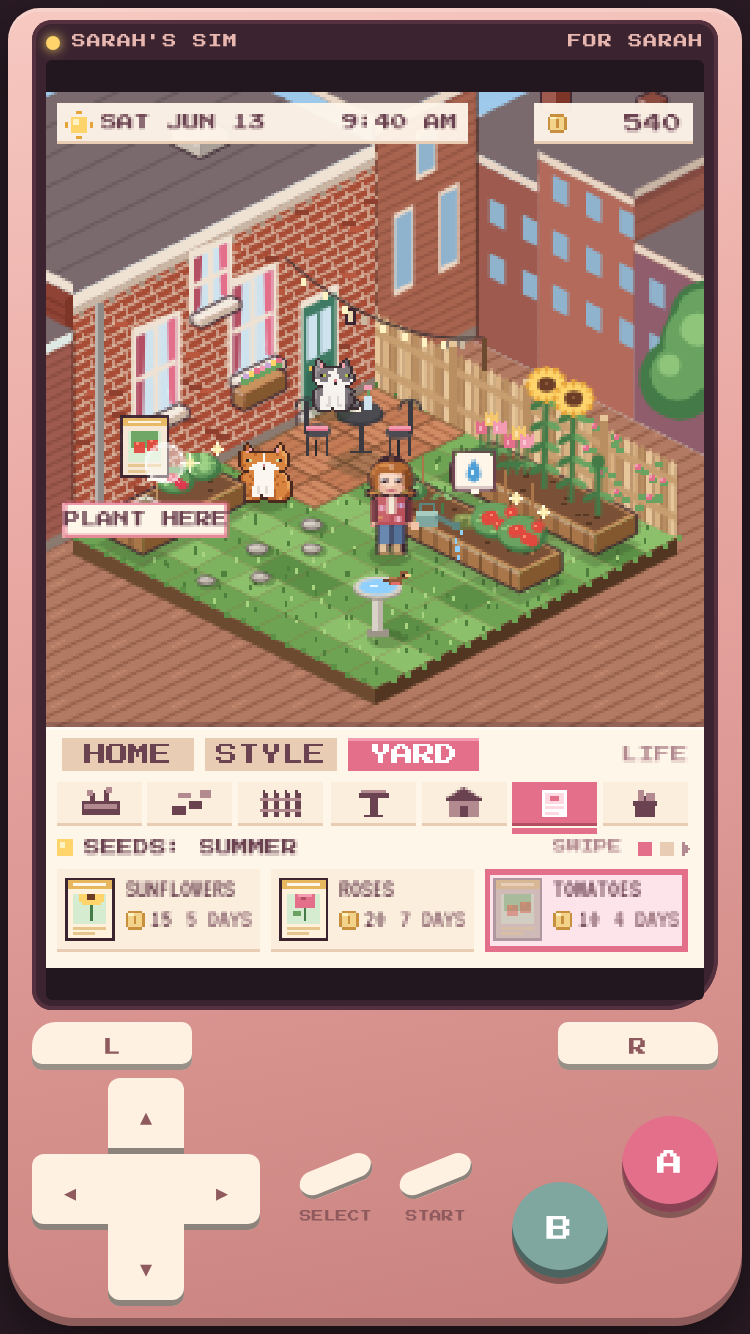
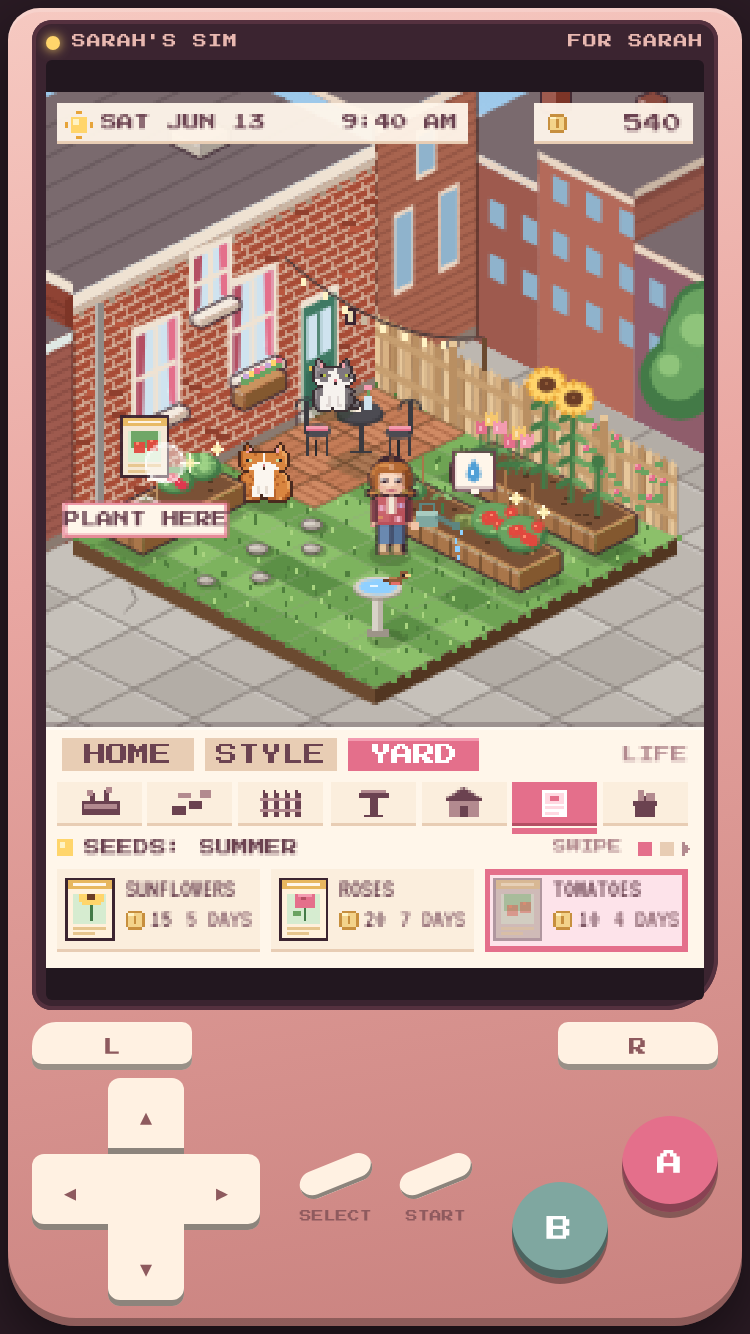
Sarah's Sim: concrete alley around the yard and lawn, not brick lines
Keegan's note: the paving read as wood planks. It's now gray concrete
slabs with joints, a few cracks and weeds.

Claude-Session: https://claude.ai/code/session_019kG9BtZjtrUuyQHKgYVmkD

Changed region(s): [[0.0613, 0.3073, 0.9507, 0.5532], [0.6133, 0.2459, 0.7053, 0.3073]]

diff --git a/games/sarahs-sim/mockups/minigame-v1.js b/games/sarahs-sim/mockups/minigame-v1.js
@@ -80,16 +80,23 @@
     // "slowly leaving": three tiny dots and footprints trailing
   }
 
-  function alley() { // brick paving in front of the lawn, so the yard sits on solid ground
+  function alley() { var WIN = false; // concrete paving in front of the lawn, so the yard sits on solid ground
     var pts = [iso(0, 0), iso(30, 0), iso(30, 30), iso(0, 30)];
-    poly(pts, '#b27a63');
-    c.save(); c.beginPath(); c.moveTo(pts[0][0], pts[0][1]); for (var i = 1; i < 4; i++) c.lineTo(pts[i][0], pts[i][1]); c.closePath(); c.clip();
-    c.strokeStyle = 'rgba(120,70,50,.55)';
-    for (var g = 0; g < 30; g += .25) { var a = iso(g, 0), b = iso(g, 30); c.beginPath(); c.moveTo(a[0], a[1]); c.lineTo(b[0], b[1]); c.stroke(); }
-    c.strokeStyle = 'rgba(210,150,120,.45)';
-    for (var h = 0; h < 30; h += .5) for (var k = 0; k < 30; k += .5) { if ((h * 2 + k * 2) % 2) continue; var p = iso(k + .12, h + .25), q = iso(k + .12, h + .5); c.beginPath(); c.moveTo(p[0], p[1]); c.lineTo(q[0], q[1]); c.stroke(); }
+    function cPoly(q, col) { poly(q, col); } function cLine(a, b, col) { c.strokeStyle = col; c.lineWidth = 1; c.beginPath(); c.moveTo(a[0], a[1]); c.lineTo(b[0], b[1]); c.stroke(); } function cR(x, y, w, h, col) { c.fillStyle = col; c.fillRect(Math.round(x), Math.round(y), w, h); }
+    poly(pts, '#bdb7b0');
+    c.save(); c.beginPath(); c.moveTo(pts[0][0], pts[0][1]); for (var i = 1; i < pts.length; i++) c.lineTo(pts[i][0], pts[i][1]); c.closePath(); c.clip();
+    // gray concrete: big square slabs with joints, a little shading per slab, a few cracks and weeds
+    for (var sy = -30; sy < 30; sy += 2) for (var sx = -30; sx < 30; sx += 2) {
+      var v = hash(sx + 40, sy + 40), a = iso(sx, sy), b = iso(sx + 2, sy), cc = iso(sx + 2, sy + 2), d = iso(sx, sy + 2);
+      cPoly([a, b, cc, d], (false) ? (v > .5 ? '#eef3f9' : '#e4ebf4') : (v > .66 ? '#c6c1ba' : v > .33 ? '#bdb7b0' : '#b3ada6'));
+      cLine(a, b, (false) ? 'rgba(170,185,210,.6)' : 'rgba(110,100,95,.55)'); cLine(a, d, (false) ? 'rgba(170,185,210,.6)' : 'rgba(110,100,95,.55)');
+      cLine([a[0], a[1] + 1], [b[0], b[1] + 1], 'rgba(255,255,255,.25)');
+      if (!WIN && v > .86) { var m = iso(sx + .6, sy + .7), m2 = iso(sx + 1.1, sy + 1.0), m3 = iso(sx + 1.3, sy + 1.6); cLine(m, m2, 'rgba(90,80,75,.5)'); cLine(m2, m3, 'rgba(90,80,75,.5)'); }
+      if (!WIN && v < .08) { var wd = iso(sx, sy + 1); cR(wd[0] - 1, wd[1] - 3, 1, 3, '#6aa361'); cR(wd[0] + 1, wd[1] - 2, 1, 2, '#8fc47b'); }
+    }
     c.restore();
   }
+
   function skyline(W, t) { // the backs of the next street's rowhouses and a few clouds
     [[30, 50, 16], [170, 58, 20]].forEach(function (cl, i) { var x = (cl[0] + t * .4 * (i + 1)) % (W + 40) - 20; c.fillStyle = 'rgba(255,255,255,.85)'; c.beginPath(); c.ellipse(x, cl[1], cl[2], cl[2] * .35, 0, 0, 7); c.ellipse(x + cl[2] * .5, cl[1] - 3, cl[2] * .55, cl[2] * .3, 0, 0, 7); c.fill(); });
     [[-4, 52, 62, '#9e5a4e'], [58, 40, 70, '#b46a5a'], [128, 58, 58, '#8f5d6b'], [186, 46, 62, '#a8644f']].forEach(function (b) {

diff --git a/games/sarahs-sim/mockups/yard-v1.js b/games/sarahs-sim/mockups/yard-v1.js
@@ -68,16 +68,24 @@
     if (!WIN) { for (var e = 0; e < N; e += .5) { var p3 = iso(e, N); R(p3[0], p3[1] - 1, 2, 2, P.grass[3]); var p4 = iso(N, e); R(p4[0], p4[1] - 1, 2, 2, P.grass[2]); } }
     else { poly([D, C, [C[0], C[1] + 2], [D[0], D[1] + 2]], '#ffffff'); poly([B, C, [C[0], C[1] + 2], [B[0], B[1] + 2]], '#e8f0fa'); }
   }
-  function surround() { // the brick alley and sidewalk around the yard, so the yard sits on solid ground
+  function surround() { // the concrete alley and sidewalk around the yard, so the yard sits on solid ground
     var pts = [iso(0, -3.2), iso(30, -3.2), iso(30, 30), iso(-30, 30), iso(-30, N), iso(0, N)]; // the alley behind the fence too
-    poly(pts, WIN ? '#e4ebf4' : '#b27a63');
+    function cPoly(q, col) { poly(q, col); } function cLine(a, b, col) { c.strokeStyle = col; c.lineWidth = 1; c.beginPath(); c.moveTo(a[0], a[1]); c.lineTo(b[0], b[1]); c.stroke(); } function cR(x, y, w, h, col) { c.fillStyle = col; c.fillRect(Math.round(x), Math.round(y), w, h); }
+    poly(pts, WIN ? '#e4ebf4' : '#bdb7b0');
     c.save(); c.beginPath(); c.moveTo(pts[0][0], pts[0][1]); for (var i = 1; i < pts.length; i++) c.lineTo(pts[i][0], pts[i][1]); c.closePath(); c.clip();
-    var mortar = WIN ? 'rgba(170,185,210,.5)' : 'rgba(120,70,50,.55)';
-    for (var g = -30; g < 30; g += .5) { line(iso(g, -30), iso(g, 30), mortar); }
-    for (var h = -30; h < 30; h += 1) for (var k = -30; k < 30; k += 1) { if ((h + k) % 2) continue; var a = iso(k + .25, h + .5), b = iso(k + .25, h + 1); line(a, b, WIN ? 'rgba(255,255,255,.6)' : 'rgba(210,150,120,.45)'); }
+    // gray concrete: big square slabs with joints, a little shading per slab, a few cracks and weeds
+    for (var sy = -30; sy < 30; sy += 2) for (var sx = -30; sx < 30; sx += 2) {
+      var v = hash(sx + 40, sy + 40), a = iso(sx, sy), b = iso(sx + 2, sy), cc = iso(sx + 2, sy + 2), d = iso(sx, sy + 2);
+      cPoly([a, b, cc, d], WIN ? (v > .5 ? '#eef3f9' : '#e4ebf4') : (v > .66 ? '#c6c1ba' : v > .33 ? '#bdb7b0' : '#b3ada6'));
+      cLine(a, b, WIN ? 'rgba(170,185,210,.6)' : 'rgba(110,100,95,.55)'); cLine(a, d, WIN ? 'rgba(170,185,210,.6)' : 'rgba(110,100,95,.55)');
+      cLine([a[0], a[1] + 1], [b[0], b[1] + 1], 'rgba(255,255,255,.25)');
+      if (!WIN && v > .86) { var m = iso(sx + .6, sy + .7), m2 = iso(sx + 1.1, sy + 1.0), m3 = iso(sx + 1.3, sy + 1.6); cLine(m, m2, 'rgba(90,80,75,.5)'); cLine(m2, m3, 'rgba(90,80,75,.5)'); }
+      if (!WIN && v < .08) { var wd = iso(sx, sy + 1); cR(wd[0] - 1, wd[1] - 3, 1, 3, '#6aa361'); cR(wd[0] + 1, wd[1] - 2, 1, 2, '#8fc47b'); }
+    }
     c.restore();
     if (WIN) for (var s = 0; s < 40; s++) { var p = iso(N + hash(s, 7) * 6, hash(7, s) * 14); R(p[0], p[1], 2, 1, '#ffffff'); }
   }
+
   function patio(x0, y0, w, d) { // brick pavers in a basket weave
     for (var j = y0; j < y0 + d; j++) for (var i = x0; i < x0 + w; i++) {
       var a = iso(i, j), b = iso(i + 1, j), cc = iso(i + 1, j + 1), dd = iso(i, j + 1);
